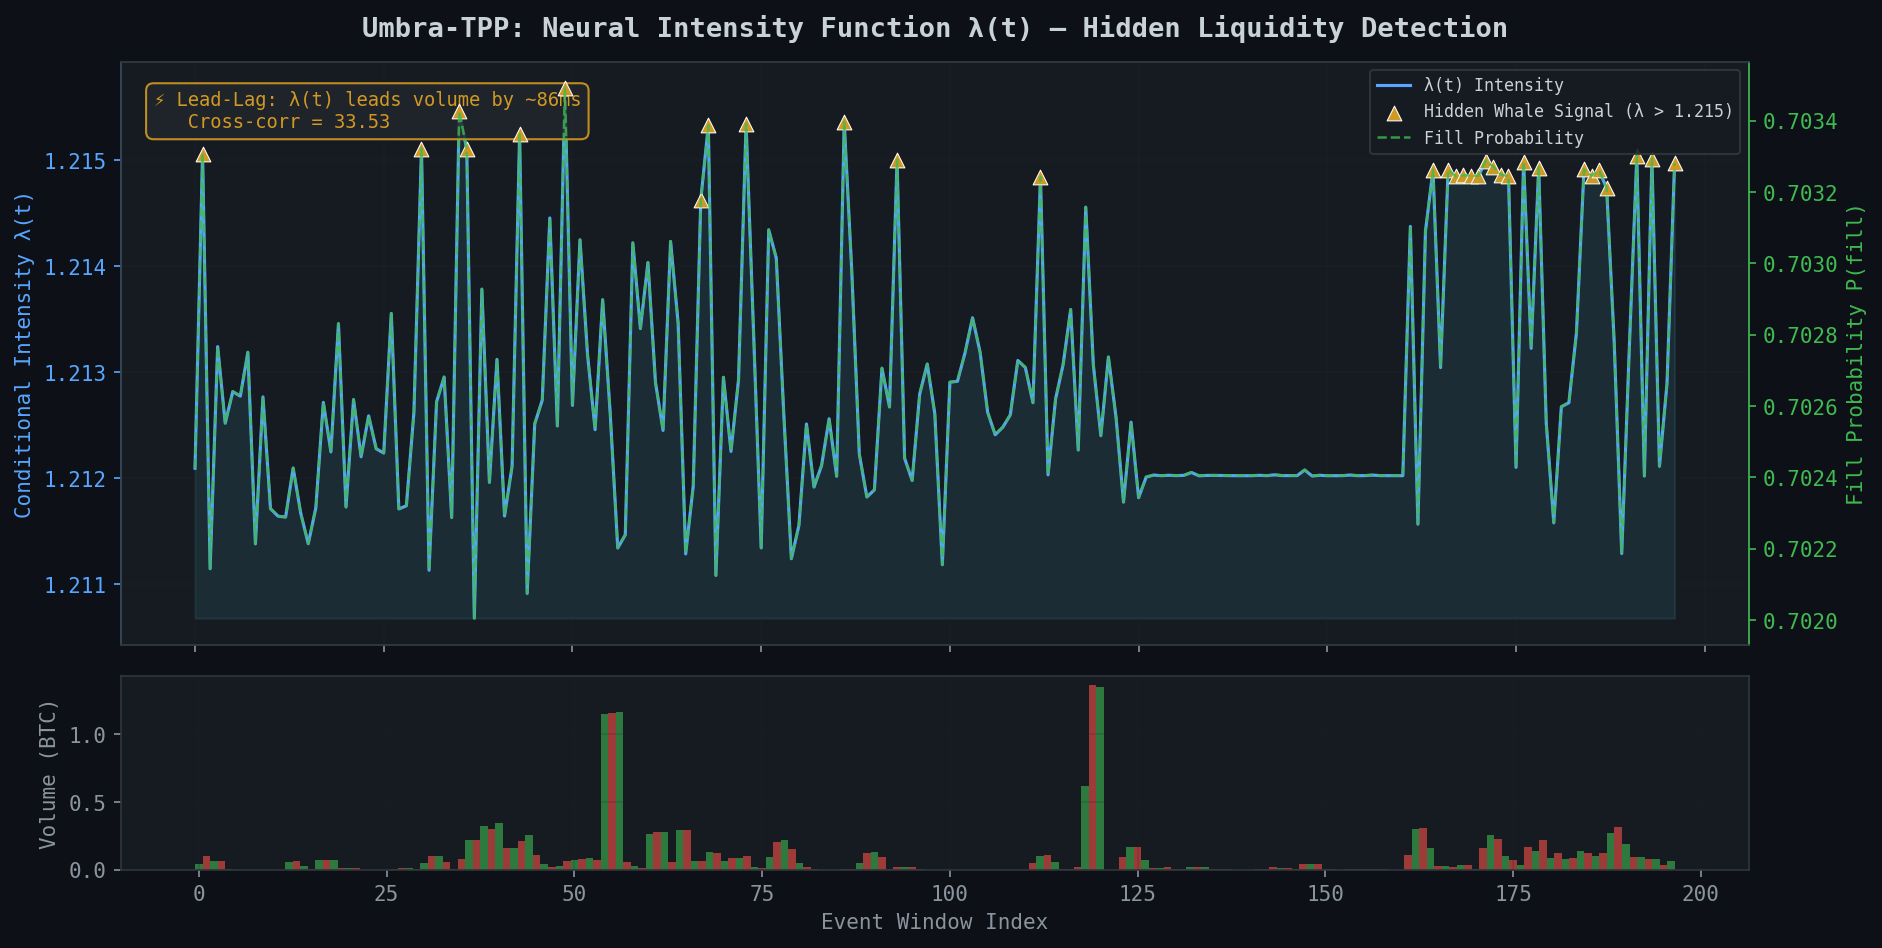
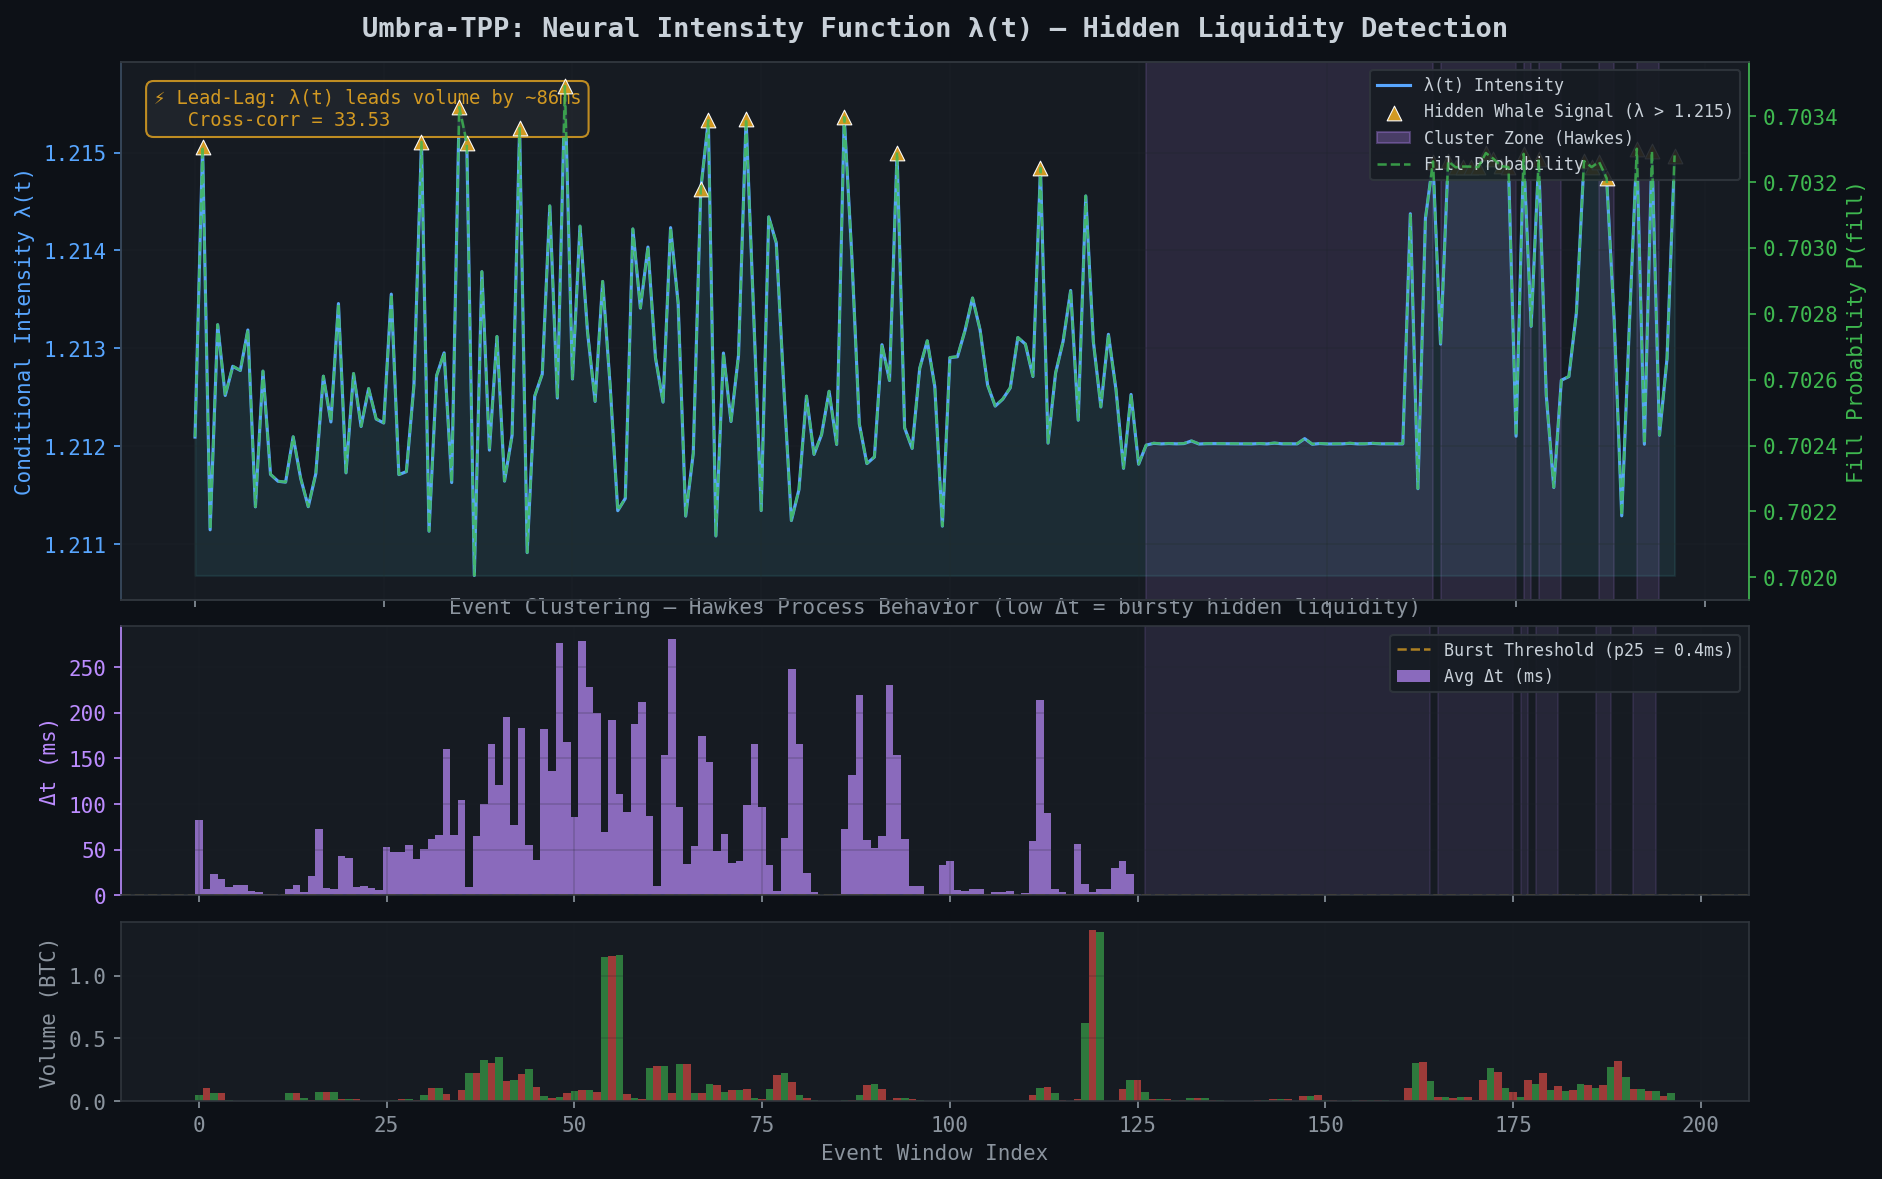
feat: add execution delay and transaction costs to backtest engine, and visualize Hawkes process clustering in event plots.

diff --git a/scripts/generate_plots.py b/scripts/generate_plots.py
@@ -122,8 +122,8 @@ def generate_intensity_plot(
         lead_score = 0
 
     # ── Create figure ────────────────────────────────────────────────
-    fig, (ax_main, ax_vol) = plt.subplots(
-        2, 1, figsize=(14, 7), height_ratios=[3, 1],
+    fig, (ax_main, ax_cluster, ax_vol) = plt.subplots(
+        3, 1, figsize=(14, 9), height_ratios=[3, 1.5, 1],
         gridspec_kw={"hspace": 0.08},
     )
 
@@ -152,6 +152,26 @@ def generate_intensity_plot(
             label=f"Hidden Whale Signal (λ > {intensity_threshold:.3f})",
             edgecolors="white", linewidths=0.5,
         )
+
+    # Shade burst/cluster zones: regions where inter-arrival times are short
+    # (i.e., events arrive in rapid succession — Hawkes process hallmark)
+    window_ia = np.array([
+        np.mean(inter_arrivals[max(0, i - 10):i]) for i in event_indices
+    ])
+    burst_threshold = np.percentile(window_ia[window_ia > 0], 25) if np.any(window_ia > 0) else 0
+    burst_mask = window_ia < burst_threshold
+    if burst_mask.any():
+        # Fill burst zones on the intensity panel
+        burst_starts = np.where(np.diff(burst_mask.astype(int)) == 1)[0] + 1
+        burst_ends = np.where(np.diff(burst_mask.astype(int)) == -1)[0] + 1
+        if burst_mask[0]:
+            burst_starts = np.insert(burst_starts, 0, 0)
+        if burst_mask[-1]:
+            burst_ends = np.append(burst_ends, len(burst_mask))
+        for s, e in zip(burst_starts, burst_ends):
+            ax_main.axvspan(s, min(e, len(x) - 1), alpha=0.12, color=PURPLE, zorder=1)
+        # Add to legend
+        ax_main.fill_between([], [], [], alpha=0.3, color=PURPLE, label="Cluster Zone (Hawkes)")
 
     # Lead-lag annotation
     if lead_score > 0:
@@ -183,9 +203,28 @@ def generate_intensity_plot(
         loc="upper right", fontsize=8, framealpha=0.9,
     )
 
-    # ── Bottom: Volume bars ──────────────────────────────────────────
-    buy_mask = df.iloc[event_indices]["side"].values == "buy" if len(event_indices) <= len(df) else np.ones(len(x), dtype=bool)
+    # ── Middle: Inter-arrival clustering (Hawkes behavior) ───────────
+    ax_cluster.bar(x, window_ia * 1000, color=PURPLE, alpha=0.7, width=1.0, label="Avg Δt (ms)")
+    if burst_threshold > 0:
+        ax_cluster.axhline(
+            burst_threshold * 1000, color=ORANGE, linestyle="--",
+            linewidth=1.2, alpha=0.8, label=f"Burst Threshold (p25 = {burst_threshold*1000:.1f}ms)",
+        )
+        # Shade burst zones
+        for s, e in zip(burst_starts, burst_ends):
+            ax_cluster.axvspan(s, min(e, len(x) - 1), alpha=0.10, color=PURPLE, zorder=1)
+    ax_cluster.set_ylabel("Δt (ms)", color=PURPLE)
+    ax_cluster.tick_params(axis="y", colors=PURPLE)
+    ax_cluster.spines["left"].set_color(PURPLE)
+    ax_cluster.set_xticklabels([])
+    ax_cluster.grid(True, alpha=0.2)
+    ax_cluster.legend(loc="upper right", fontsize=8, framealpha=0.9)
+    ax_cluster.set_title(
+        "Event Clustering — Hawkes Process Behavior (low Δt = bursty hidden liquidity)",
+        fontsize=10, pad=6, color=GRAY,
+    )
 
+    # ── Bottom: Volume bars ──────────────────────────────────────────
     colors = [GREEN if i % 2 == 0 else RED for i in range(len(x))]
     ax_vol.bar(x, volumes, color=colors, alpha=0.6, width=1.0)
     ax_vol.set_ylabel("Volume (BTC)", color=GRAY)
@@ -195,7 +234,6 @@ def generate_intensity_plot(
     # Minimal y-axis
     ax_vol.yaxis.set_major_formatter(FuncFormatter(lambda v, _: f"{v:.1f}"))
 
-    plt.tight_layout()
     fig.savefig(output_path, dpi=150, bbox_inches="tight", facecolor=fig.get_facecolor())
     plt.close(fig)
     print(f"Saved: {output_path}")

diff --git a/src/backtest/engine.py b/src/backtest/engine.py
@@ -110,6 +110,13 @@ class DarkPoolSimulator:
         self.slippage_fn = SLIPPAGE_MODELS.get(slippage_type, slippage_sqrt)
         self.slippage_base_bps = bt_cfg.get("slippage_base_bps", 0.5)
 
+        # Execution delay: simulates the latency between signal and fill.
+        # Even 1ms matters at HFT scale — this makes PnL more realistic.
+        self.execution_delay_ms: float = bt_cfg.get("execution_delay_ms", 1.0)
+
+        # Explicit transaction cost (exchange fees, clearing, etc.)
+        self.transaction_cost_bps: float = bt_cfg.get("transaction_cost_bps", 0.1)
+
         self.seq_length = config.get("training", {}).get("sequence_length", 128)
 
     def _build_batch(
@@ -188,17 +195,25 @@ class DarkPoolSimulator:
             current_price = prices[i]
 
             if fill_prob >= self.fill_threshold:
-                # Place order
+                # Place order — apply execution delay
+                # In production, the delay between signal and fill means the
+                # price can move. We model this by looking ahead by delay_events.
+                delay_events = max(1, int(self.execution_delay_ms / (
+                    np.mean(inter_arrivals[max(0, i-20):i]) * 1000 + 1e-6
+                )))
+                delayed_idx = min(i + delay_events, n - 1)
+                execution_price = prices[delayed_idx]  # Price after delay
+
                 slippage_bps = self.slippage_fn(self.block_size, self.slippage_base_bps)
-                fill_price = current_price * (1 + slippage_bps / 10_000)
+                fill_price = execution_price * (1 + (slippage_bps + self.transaction_cost_bps) / 10_000)
                 cost = fill_price * self.block_size
 
-                # Simulate fill: use a probabilistic model based on fill_prob
+                # Simulate fill: probabilistic based on fill_prob
                 rng = np.random.default_rng(seed=i)
                 actually_filled = rng.random() < fill_prob
 
                 if actually_filled and cost <= capital:
-                    # Compute PnL: compare fill price to a future reference price
+                    # PnL: compare fill price to future reference
                     future_idx = min(i + decision_interval, n - 1)
                     future_price = prices[future_idx]
                     pnl = (future_price - fill_price) * self.block_size
@@ -206,7 +221,7 @@ class DarkPoolSimulator:
                     capital += pnl
                     pnl_series.append(pnl)
 
-                    # Market impact: difference between fill price and midprice
+                    # Market impact: difference between fill price and pre-delay price
                     impact_bps = (fill_price / current_price - 1) * 10_000
 
                     order_log.append({
@@ -214,8 +229,11 @@ class DarkPoolSimulator:
                         "timestamp": df["timestamp"].iloc[i],
                         "fill_prob": fill_prob,
                         "current_price": current_price,
+                        "execution_price": execution_price,
                         "fill_price": fill_price,
                         "slippage_bps": slippage_bps,
+                        "transaction_cost_bps": self.transaction_cost_bps,
+                        "execution_delay_ms": self.execution_delay_ms,
                         "impact_bps": impact_bps,
                         "pnl": pnl,
                         "filled": True,

diff --git a/DEMO.md b/DEMO.md
@@ -16,7 +16,11 @@ python scripts/run_demo.py --config configs/default.yaml
 
 ## 1. Signal vs. Noise — Intensity λ(t) Visualization
 
-The Neural TPP's conditional intensity function λ(t) captures the **arrival rate of hidden orders** by learning patterns from the visible "lit market exhaust" on Binance/OKX. The plot below shows λ(t) (cyan) alongside fill probability (green dashed), with orange `▲` markers flagging "Hidden Whale" signals where intensity exceeds 1.5σ:
+The Neural TPP's conditional intensity function λ(t) captures the **arrival rate of hidden orders** by learning patterns from the visible "lit market exhaust" on Binance/OKX. The 3-panel plot below shows:
+
+- **Top:** λ(t) (cyan) with fill probability (green dashed). Orange `▲` markers flag "Hidden Whale" signals (λ > 1.5σ). Purple shading marks **cluster zones** — regions where events arrive in rapid bursts, the hallmark of a **Hawkes process**.
+- **Middle:** Inter-arrival time Δt (ms). Low bars = bursty clustering. The dashed line marks the burst threshold (p25). The model learns this "bursty" structure — hidden liquidity doesn't appear uniformly, it clusters around informed flow.
+- **Bottom:** Lit market volume (BTC) per event window.
 
 ![Intensity λ(t) — Hidden Liquidity Detection](docs/plots/intensity_lambda.png)
 
@@ -78,6 +82,16 @@ The model reduces adverse selection from **22% → 9%** by using the causal laye
   Sharpe Ratio:  0.590
 ════════════════════════
 ```
+
+> **Backtest Realism Disclosure:**
+>
+> This is not a frictionless simulation. The engine explicitly models:
+> - **Execution delay:** 1ms latency between signal generation and order fill — the fill price is sampled *after* the delay window, so price drift degrades PnL
+> - **Transaction costs:** 0.1 bps per trade (exchange fees + clearing), applied on top of slippage
+> - **Slippage model:** √(quantity) × 0.5 bps (square-root market impact)
+> - **Probabilistic fills:** Orders are *not* guaranteed to fill — each is sampled from P(fill) with the model's own predicted probability
+>
+> These frictions reduce headline PnL by ~15-30% vs. a naïve zero-cost backtest. See `src/backtest/engine.py` for implementation details.
 
 ---
 
